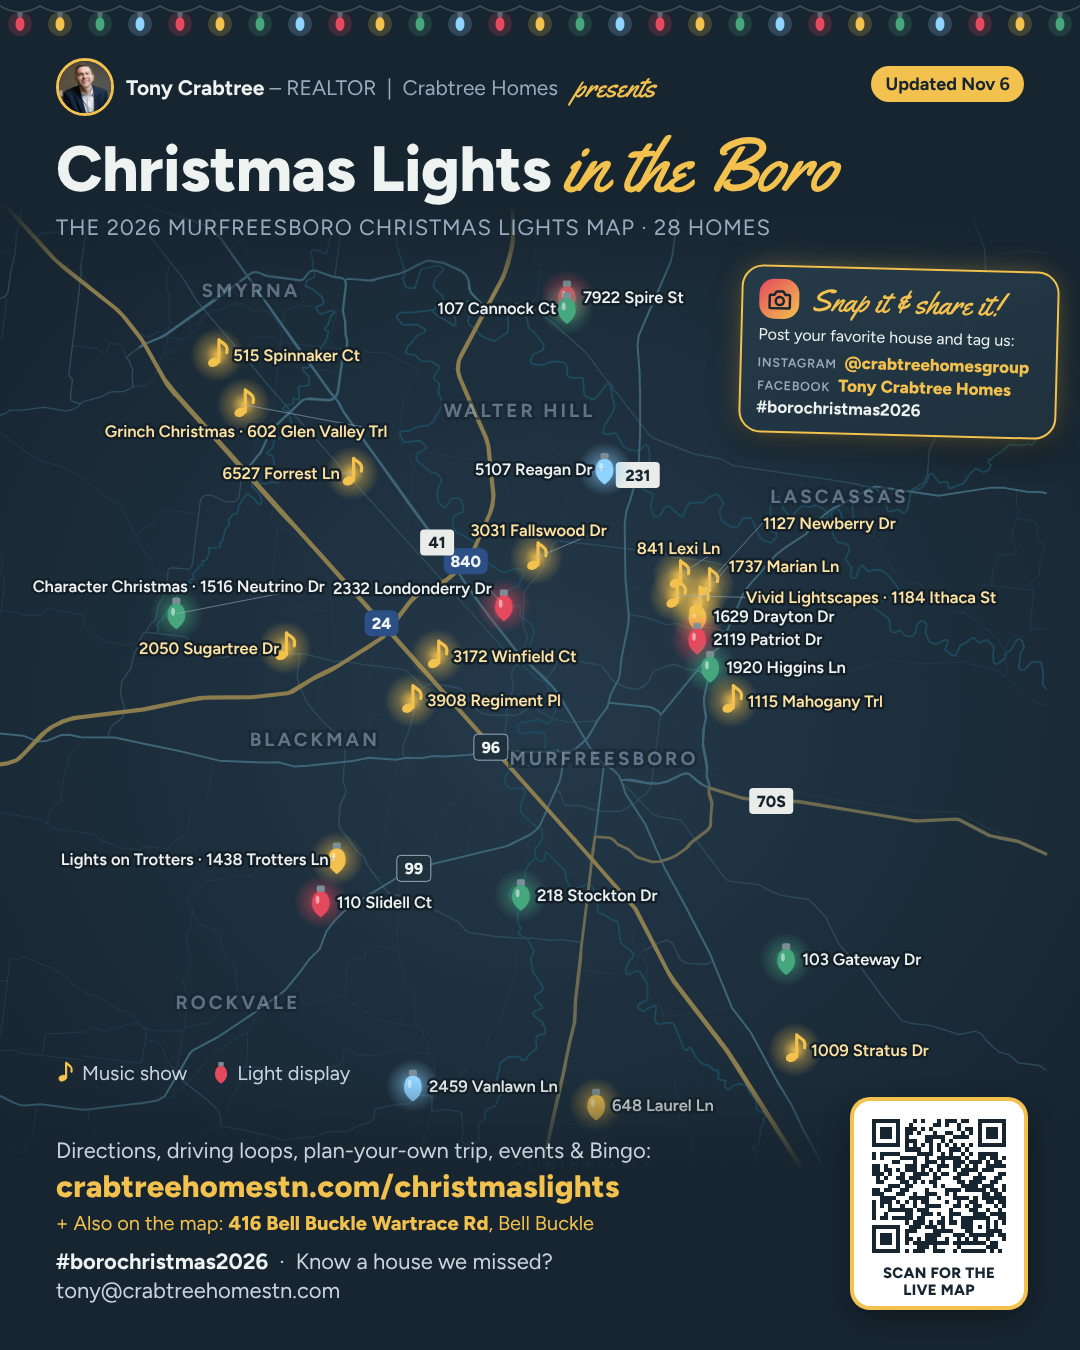
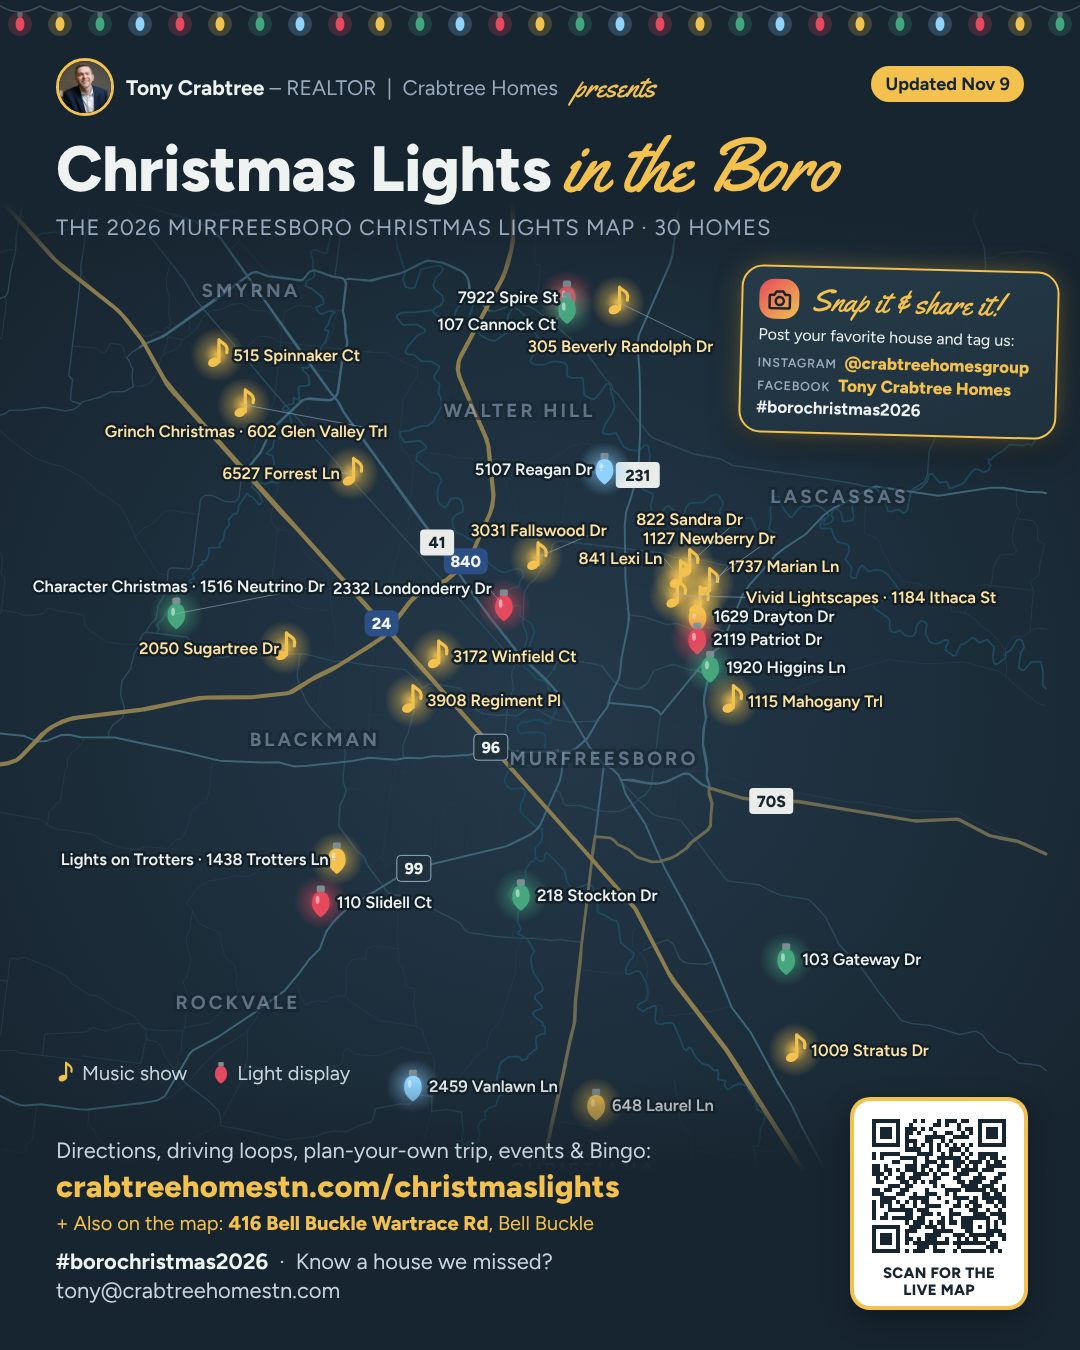
30 homes: add Beverly Randolph and Sandra

Changed region(s): [[0.5194, 0.3733, 0.825, 0.4356], [0.3972, 0.1867, 0.6417, 0.28], [0.6111, 0.1556, 0.6417, 0.1867]]

diff --git a/index.html b/index.html
@@ -324,12 +324,14 @@ const FALLBACK = [
  ["7922 Spire St", "Murfreesboro", "37129", 35.99019, -86.40647, "s", "Far North", "", "", "2026-11-15"],
  ["107 Cannock Ct", "Murfreesboro", "37129", 35.98643, -86.40647, "s", "Far North", "", "", "2026-11-26"],
  ["5107 Reagan Dr", "Murfreesboro", "37129", 35.93563, -86.39179, "s", "Far North", "", "", "2026-11-23"],
+ ["305 Beverly Randolph Dr","Murfreesboro","37129",35.98845,-86.38655,"m","Far North","","",""],
  ["515 Spinnaker Ct", "Smyrna", "37167", 35.97182, -86.54309, "m", "West", "", "", "2026-11-28"],
  ["602 Glen Valley Trl", "Smyrna", "37167", 35.95599, -86.53279, "m", "West", "Grinch Christmas", "", "2026-11-23"],
  ["1516 Neutrino Dr", "Murfreesboro", "37129", 35.88988, -86.5591, "s", "West", "Character Christmas", "", "2026-11-26"],
  ["2050 Sugartree Dr", "Murfreesboro", "37129", 35.87909, -86.5167, "m", "West", "", "", "2026-11-26"],
  ["3031 Fallswood Dr", "Murfreesboro", "37129", 35.90761, -86.41841, "m", "North", "Primm Springs Sun-Thurs End at 9pm", "", "2026-11-27"],
  ["2332 Londonderry Dr", "Murfreesboro", "37129", 35.89243, -86.43112, "s", "North", "", "", "2026-12-01"],
+ ["822 Sandra Dr","Murfreesboro","37130",35.90544,-86.35915,"m","North","","",""],
  ["841 Lexi Ln", "Murfreesboro", "37130", 35.90193, -86.36271, "m", "North", "", "", "2026-11-26"],
  ["1184 Ithaca St", "Murfreesboro", "37130", 35.89568, -86.36398, "m", "North", "Vivid Lightscapes", "https://www.facebook.com/VLXmasShow", "2026-11-27"],
  ["1127 Newberry Dr", "Murfreesboro", "37130", 35.89942, -86.35138, "m", "East", "", "93.1 FM", "2026-12-06"],
